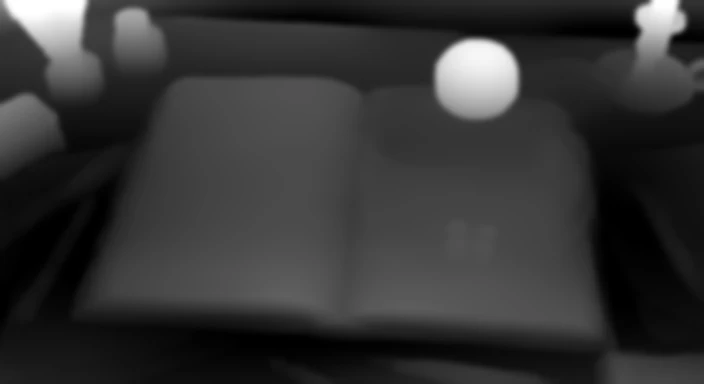
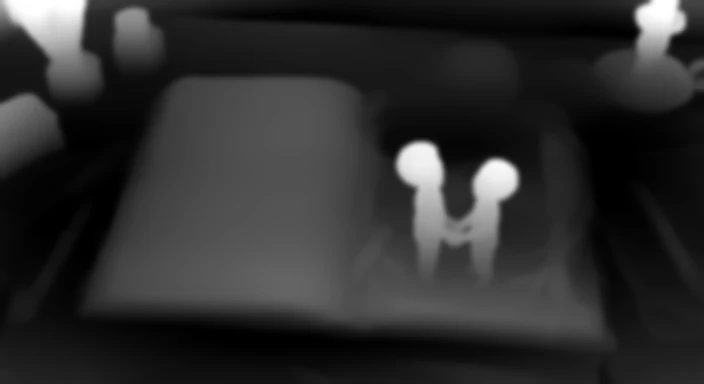
Upside-Down World p8: new blue-sun picture; kids stand looking up, crouch, kneel to touch the sand and stand again (soft pose fades), breathing blue sun glow, rippling rings, sparkles, 2x upscale
Claude-Session: https://claude.ai/code/session_01BFtifSTdmWYaAK88ECs5PE

diff --git a/books/upside-down-world/sprite.js b/books/upside-down-world/sprite.js
@@ -1,2 +1,2 @@
 /* flying objects drawn over a still page: img = transparent sprite, rs = ball radius in the sprite, path = [x,y,radius] per frame at 24 fps in 1408x768 picture pixels */
-window.SPRITES={p01:{img:"img/p01-ball.webp",size:260,rs:104.5,path:[[951.0,390.0,18.5],[946.4,377.6,21.9],[944.8,373.2,22.6],[941.8,364.8,24.4],[938.6,356.8,26.0],[935.2,349.1,27.6],[931.6,342.1,29.2],[927.9,335.5,30.7],[923.8,329.1,32.0],[919.7,322.8,33.5],[915.7,316.9,34.9],[911.8,311.1,36.2],[907.8,305.5,37.6],[903.9,300.1,38.9],[899.8,295.1,40.2],[895.8,290.0,41.2],[891.4,285.1,42.2],[887.2,280.3,43.2],[882.9,275.7,44.3],[878.9,271.0,45.3],[874.9,266.6,46.5],[871.2,262.1,47.8],[867.5,257.7,49.1],[863.9,253.4,50.5],[860.2,249.1,51.8],[856.2,244.7,53.0],[852.4,240.6,54.2],[848.3,236.6,55.3],[843.9,232.6,56.5],[839.6,228.6,57.6],[835.4,224.8,58.6],[830.9,221.0,59.7],[826.3,217.3,60.7],[821.9,213.7,61.5],[817.4,210.1,62.4],[812.8,206.8,63.6],[808.1,203.5,64.5],[803.4,200.3,65.6],[798.8,196.9,66.6],[794.1,193.7,67.7],[789.4,190.4,68.8],[784.8,187.1,70.0],[780.1,183.8,71.3],[775.3,180.6,72.7],[770.3,177.4,74.1],[765.1,174.3,75.5],[759.8,171.1,77.0],[754.7,167.8,78.5],[749.2,164.6,80.0],[743.7,161.4,81.3],[738.1,157.9,82.7],[732.6,154.6,84.0]]},p02:{img:"img/p01-ball.webp",size:260,rs:104.5,kind:"lob",from:[1008,538,9],to:[1040,212,4.2],apex:170,rig:[{img:"img/p02-leg.webp",box:[960,515,60,60],pivot:[987,531],depth:[988,545],motion:"leg"}]},p03:{rig:[{img:"img/p03-leo.webp",box:[906,462,52,56],pivot:[932,504],depth:[932,495],motion:"headL"},{img:"img/p03-sam.webp",box:[946,475,52,56],pivot:[972,515],depth:[972,505],motion:"headS"}]},p03s:{img:"img/p01-ball.webp",size:260,rs:104.5,kind:"hops",ground:true,rest:1.6,start:[920.3,488.6,14.5],du:[1.25,.42,.3],grow:.5,bend:-62,hops:[[896,197,9.5,175],[892,187,8.5,15],[879,181,7.5,6]],to:[879,181,7.5]},p03t:{rig:[{img:"img/p03-turn.webp",box:[888,468,114,140],pivot:[945,538],depth:[945,540],motion:"turn"}]},p05p:{rig:[{img:"img/p05-point.webp",box:[884,452,118,156],pivot:[943,530],depth:[943,540],motion:"point2"}]},p06k:{rig:[{img:"img/p06-k0.webp",box:[878,423,80,114],pivot:[918.4,478.3],depth:[918.4,508.3],motion:"kf0"},{img:"img/p06-k1.webp",box:[866,417,97,111],pivot:[915.3,473.5],depth:[915.3,503.5],motion:"kf1"},{img:"img/p06-k2.webp",box:[874,472,99,116],pivot:[921.4,531.8],depth:[921.4,561.8],motion:"kf2"}]},p07k:{rig:[{img:"img/p07-kids.webp",box:[859.6,324.2,83.1,120.1],pivot:[910,404],depth:[910,395],motion:"walk7"}]}};
+window.SPRITES={p01:{img:"img/p01-ball.webp",size:260,rs:104.5,path:[[951.0,390.0,18.5],[946.4,377.6,21.9],[944.8,373.2,22.6],[941.8,364.8,24.4],[938.6,356.8,26.0],[935.2,349.1,27.6],[931.6,342.1,29.2],[927.9,335.5,30.7],[923.8,329.1,32.0],[919.7,322.8,33.5],[915.7,316.9,34.9],[911.8,311.1,36.2],[907.8,305.5,37.6],[903.9,300.1,38.9],[899.8,295.1,40.2],[895.8,290.0,41.2],[891.4,285.1,42.2],[887.2,280.3,43.2],[882.9,275.7,44.3],[878.9,271.0,45.3],[874.9,266.6,46.5],[871.2,262.1,47.8],[867.5,257.7,49.1],[863.9,253.4,50.5],[860.2,249.1,51.8],[856.2,244.7,53.0],[852.4,240.6,54.2],[848.3,236.6,55.3],[843.9,232.6,56.5],[839.6,228.6,57.6],[835.4,224.8,58.6],[830.9,221.0,59.7],[826.3,217.3,60.7],[821.9,213.7,61.5],[817.4,210.1,62.4],[812.8,206.8,63.6],[808.1,203.5,64.5],[803.4,200.3,65.6],[798.8,196.9,66.6],[794.1,193.7,67.7],[789.4,190.4,68.8],[784.8,187.1,70.0],[780.1,183.8,71.3],[775.3,180.6,72.7],[770.3,177.4,74.1],[765.1,174.3,75.5],[759.8,171.1,77.0],[754.7,167.8,78.5],[749.2,164.6,80.0],[743.7,161.4,81.3],[738.1,157.9,82.7],[732.6,154.6,84.0]]},p02:{img:"img/p01-ball.webp",size:260,rs:104.5,kind:"lob",from:[1008,538,9],to:[1040,212,4.2],apex:170,rig:[{img:"img/p02-leg.webp",box:[960,515,60,60],pivot:[987,531],depth:[988,545],motion:"leg"}]},p03:{rig:[{img:"img/p03-leo.webp",box:[906,462,52,56],pivot:[932,504],depth:[932,495],motion:"headL"},{img:"img/p03-sam.webp",box:[946,475,52,56],pivot:[972,515],depth:[972,505],motion:"headS"}]},p03s:{img:"img/p01-ball.webp",size:260,rs:104.5,kind:"hops",ground:true,rest:1.6,start:[920.3,488.6,14.5],du:[1.25,.42,.3],grow:.5,bend:-62,hops:[[896,197,9.5,175],[892,187,8.5,15],[879,181,7.5,6]],to:[879,181,7.5]},p03t:{rig:[{img:"img/p03-turn.webp",box:[888,468,114,140],pivot:[945,538],depth:[945,540],motion:"turn"}]},p05p:{rig:[{img:"img/p05-point.webp",box:[884,452,118,156],pivot:[943,530],depth:[943,540],motion:"point2"}]},p06k:{rig:[{img:"img/p06-k0.webp",box:[878,423,80,114],pivot:[918.4,478.3],depth:[918.4,508.3],motion:"kf0"},{img:"img/p06-k1.webp",box:[866,417,97,111],pivot:[915.3,473.5],depth:[915.3,503.5],motion:"kf1"},{img:"img/p06-k2.webp",box:[874,472,99,116],pivot:[921.4,531.8],depth:[921.4,561.8],motion:"kf2"}]},p07k:{rig:[{img:"img/p07-kids.webp",box:[859.6,324.2,83.1,120.1],pivot:[910,404],depth:[910,395],motion:"walk7"}]},p08k:{rig:[{img:"img/p08-k1.webp",box:[750,272,339.5,323],pivot:[920,590],depth:[920,560],motion:"p8a"},{img:"img/p08-k2.webp",box:[781,272,283.5,323],pivot:[920,590],depth:[920,560],motion:"p8b"}]}};

diff --git a/books/upside-down-world/index.html b/books/upside-down-world/index.html
@@ -131,11 +131,11 @@ vec3 live(sampler2D tx,sampler2D dx,vec2 uv,float s,vec2 o,float dim,float wind,
   /* light-tunnel swirl: the streaks ripple around the bright core in slow waves; the core breathes */
   float gp=0.;
   if(sw.z>0.){vec2 d=q-sw.xy;d.x*=1.833;float r=length(d);
-    float fall=smoothstep(.03,.12,r)*smoothstep(.62,.32,r);
+    float ro=sw.w>0.?sw.w:.62;float fall=smoothstep(.03,.12,r)*smoothstep(ro,ro*.52,r);
     float th=sw.z*(sin(t*.55-r*16.)+.45*sin(t*.9-r*31.+1.7))*fall;
     vec2 dr=vec2(d.x*cos(th)-d.y*sin(th),d.x*sin(th)+d.y*cos(th));w+=vec2((d.x-dr.x)/1.833,d.y-dr.y);
     gp=exp(-r*r/.0035)*(.10+.07*sin(t*1.25)+.03*sin(t*3.1+1.));}
-  vec3 c=texture2D(tx,q2-w).rgb;c+=vec3(1.,.8,.48)*gp;
+  vec3 c=texture2D(tx,q2-w).rgb;c+=(sw.w>0.?vec3(.45,.72,1.)*1.4:vec3(1.,.8,.48))*gp;
   float sh=m*r2*(.055*sin(t*1.6+q.x*13.+q.y*6.)+.035*sin(t*2.7-q.y*17.));
   c*=1.+sh;c*=1.-dim*.25*smoothstep(.40,.56,q.x);
   return c;}
@@ -167,7 +167,7 @@ function loadVid(name){if(vids[name])return vids[name];const v=document.createEl
   const o={v,t:null,ok:false};v.addEventListener('playing',()=>{o.ok=true;});vids[name]=o;return o;}
 function pageTex(p){if(p.video)return {c:loadTex('img/'+p.img+'.webp'),d:p.relief?loadTex('img/'+p.img+'-d.webp'):black(),vid:loadVid(p.video)};return {c:loadTex('img/'+p.img+'.webp'),d:loadTex('img/'+p.img+'-d.webp')};}
 const ORIGIN={kb:[.72,.55],shade:[.80,.74]};
-function swv(p){return p.swirl?[p.swirl[0]/1408,p.swirl[1]/768,p.swirl[2],0]:[0,0,0,0];}
+function swv(p){return p.swirl?[p.swirl[0]/1408,p.swirl[1]/768,p.swirl[2],p.swirl[3]||0]:[0,0,0,0];}
 function kbScale(p,el){const dur=40,x=Math.min(1,el/dur),e=1-Math.pow(1-x,2);return 1+(p.fx==='shade'?.065:.045)*e;}
 
 /* ---------- layout ---------- */
@@ -372,6 +372,11 @@ const MOT={
     const x=P[i][0]+(P[i+1][0]-P[i][0])*e,y=P[i][1]+(P[i+1][1]-P[i][1])*e,sc=S[i]+(S[i+1]-S[i])*e,al=AL[i]+(AL[i+1]-AL[i])*e;
     const step=tt>=1.2?Math.abs(Math.sin(tt*Math.PI*1.7)):0;
     return {dx:x-P[0][0],dy:y-P[0][1]-step*1.6*sc,rot:Math.sin(tt*Math.PI*.85)*.022*(tt>=1.2?1:.3),sx:sc,sy:sc,a:al*(tt>14?fin:1)};},
+  /* page 8: standing and looking up -> crouch -> kneel and touch the pink sand -> stand again (16 s) */
+  p8(tt,j){const T=16;tt=((tt%T)+T)%T;const f=(x,d)=>{x=Math.max(0,Math.min(1,x/d));return x*x*(3-2*x);};
+    let a=0;if(j===1)a=tt<4?0:tt<4.5?f(tt-4,.5):tt<8.15?1:tt<8.45?1-f(tt-8.15,.3):0;
+    else a=tt<7.7?0:tt<8.2?f(tt-7.7,.5):tt<12?1:tt<12.55?1-f(tt-12,.55):0;
+    const br=Math.sin(tt*1.6)*.004;return {dx:0,dy:0,rot:0,sx:1,sy:1+br,a};},
   hide(tt){const T=16;tt=((tt%T)+T)%T;const S=7.0,E=11.6+.85;return {dx:0,dy:0,rot:0,sx:1,sy:1,a:Math.max(0,Math.min(1,(tt-S)/.12,(E-tt)/.12))};},
   head(tt,dir,lag){const T=16;tt=((tt-lag)%T+T)%T;let k=0;
     if(tt>=.8&&tt<1.9)k=ease((tt-.8)/1.1);else if(tt>=1.9&&tt<4.8)k=1;else if(tt>=4.8&&tt<5.9)k=1-ease((tt-4.8)/1.1);
@@ -382,7 +387,7 @@ function drawRig(c,d,L,now,dt,w,h,t,ps,o){
   const p=L._p,dim=p.fx==='shade'?dimS:0;
   (d.rig||[]).forEach(r=>{if(!r.im||!r.im.complete||!r.im.naturalWidth)return;
     const tt=reduce?0:(now-pageT0)/1000;
-    const M=r.motion==='walk7'?MOT.walk7(tt):r.motion&&r.motion.startsWith('kf')?MOT.kf(tt,+r.motion[2]):r.motion==='point2'?MOT.point2(tt):r.motion==='point'?MOT.point(tt):r.motion==='hide'?MOT.hide(tt):r.motion==='turn'?MOT.turn(tt):r.motion==='leg'?MOT.leg(tt):r.motion==='headL'?MOT.head(tt,1,0):MOT.head(tt,-1,.18);
+    const M=r.motion==='p8a'?MOT.p8(tt,1):r.motion==='p8b'?MOT.p8(tt,2):r.motion==='walk7'?MOT.walk7(tt):r.motion&&r.motion.startsWith('kf')?MOT.kf(tt,+r.motion[2]):r.motion==='point2'?MOT.point2(tt):r.motion==='point'?MOT.point(tt):r.motion==='hide'?MOT.hide(tt):r.motion==='turn'?MOT.turn(tt):r.motion==='leg'?MOT.leg(tt):r.motion==='headL'?MOT.head(tt,1,0):MOT.head(tt,-1,.18);
     const rl=depthAt(p.img,r.depth[0],r.depth[1]),qx=r.pivot[0]/W,qy=r.pivot[1]/H,s2=shiftAt(qx,qy,rl,t),
       px=(o[0]+(qx-o[0])*curS+s2[0])*w,py=(o[1]+(qy-o[1])*curS+s2[1])*h;
     const sh=sm3(.30,.40,qx)*sm3(.97,.90,qx)*sm3(.95,.85,qy)*rl*(.055*Math.sin(t*1.6+qx*13+qy*6)+.035*Math.sin(t*2.7-qy*17)),f=(1+sh)*(1-dim*.25);

diff --git a/books/upside-down-world/story.js b/books/upside-down-world/story.js
@@ -20,7 +20,7 @@ window.STORY={title:"The Upside-Down World",author:"M. A. Mafodh",pages:[
  "Inside, it wasn't dark anymore. The space between the roots opened up into a tunnel, but it wasn't made of dirt. The walls shimmered, like they were woven from light. A soft, golden glow pulsed from the other end.",
  "\"Whoa,\" Sam breathed. \"Come on,\" Leo said, his fear turning into a fizz of excitement. \"Let's see.\"",
  "They walked through the glowing tunnel, their sneakers making no sound on the smooth, warm floor. At the other end, they stepped out and both of them gasped."]},
-{img:"p07",box:[362,190,700,395],parts:[
+{img:"p07",sprite:"p08k",swirl:[952,150,.03,.26],dust:true,box:[362,190,700,395],parts:[
  "The world was flipped upside down. The sun, hanging in a perfectly clear sky, was the deep, sparkling blue of the ocean.",
  "And the ocean below, lapping at a shore of soft, pink sand, was a bright, sunny yellow. \"What... what is this place?\" Sam stammered."]},
 {img:"cover",box:[360,200,560,462],parts:[
